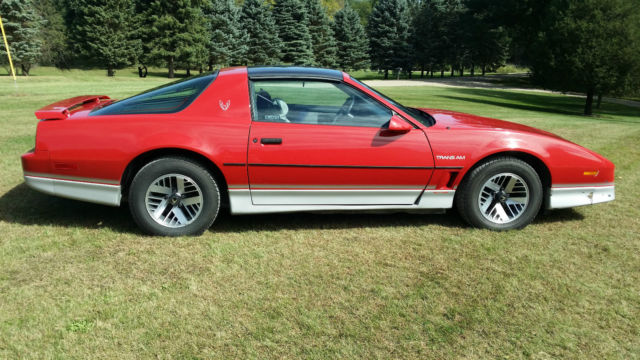
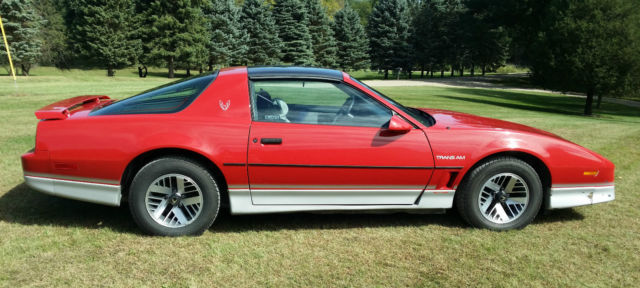
adjusted car pic height

diff --git a/events.js b/events.js
@@ -1,0 +1,17 @@
+// When you click on one of the car elements,
+// change the width of the border to a higher value,
+// and change the background color to any other color of your
+// choosing.
+
+// Also, on click of the car element,
+// clear the value of the text input in the navbar,
+// and put the cursor in the text input.
+
+// When you start typing into the navbar's text input,
+// the description of the currently selected car should be
+// bound to what you are typing in and match it exactly.
+
+//IIFE that uses a function that creates all event handlers,
+//name it activateEvents
+
+//Final IIFE

diff --git a/quiz.js b/quiz.js
@@ -6,7 +6,7 @@
       console.log(inventory[i].make)
       var car = inventory[i]
       //string interpolation
-      showRoom.innerHTML += `<div class="col-sm-4 carCard" style="border-color: ${car.color}">
+      showRoom.innerHTML += `<div class="col-md-4 carCard" style="border-color: ${car.color}">
       <img src="${car.url}">
       <h3>${car.year} ${car.make} ${car.model}</h3>
       <h3>$${car.price}</h3>

diff --git a/quiz.css b/quiz.css
@@ -4,8 +4,14 @@ h1 {
 
 img {
   max-width: 100%;
+  padding-top: 15px;
 }
 
 .carCard {
   border: solid 3px;
+}
+
+.clickedCarCard {
+  border: solid 6px;
+  background-color: lightblue;
 }

diff --git a/index.html b/index.html
@@ -27,6 +27,7 @@
   </div>
   <script src="carLot.js"></script>
   <script src="quiz.js"></script>
+  <script src="events.js"></script>
 </body>
 </html>
 
